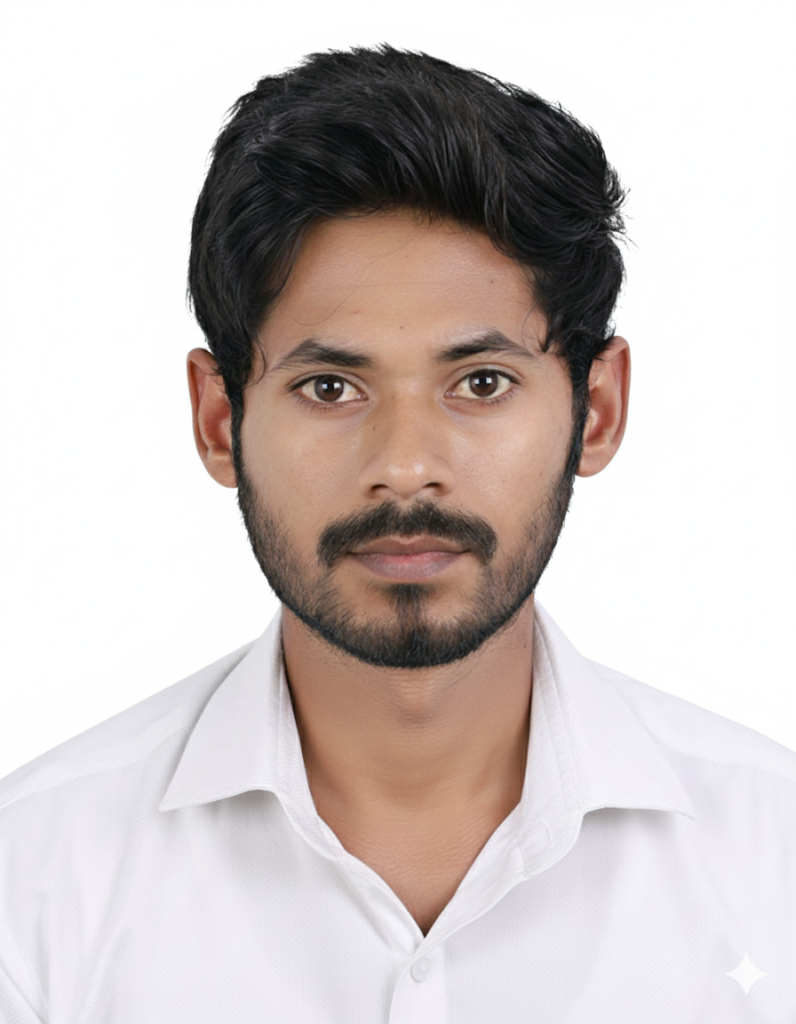
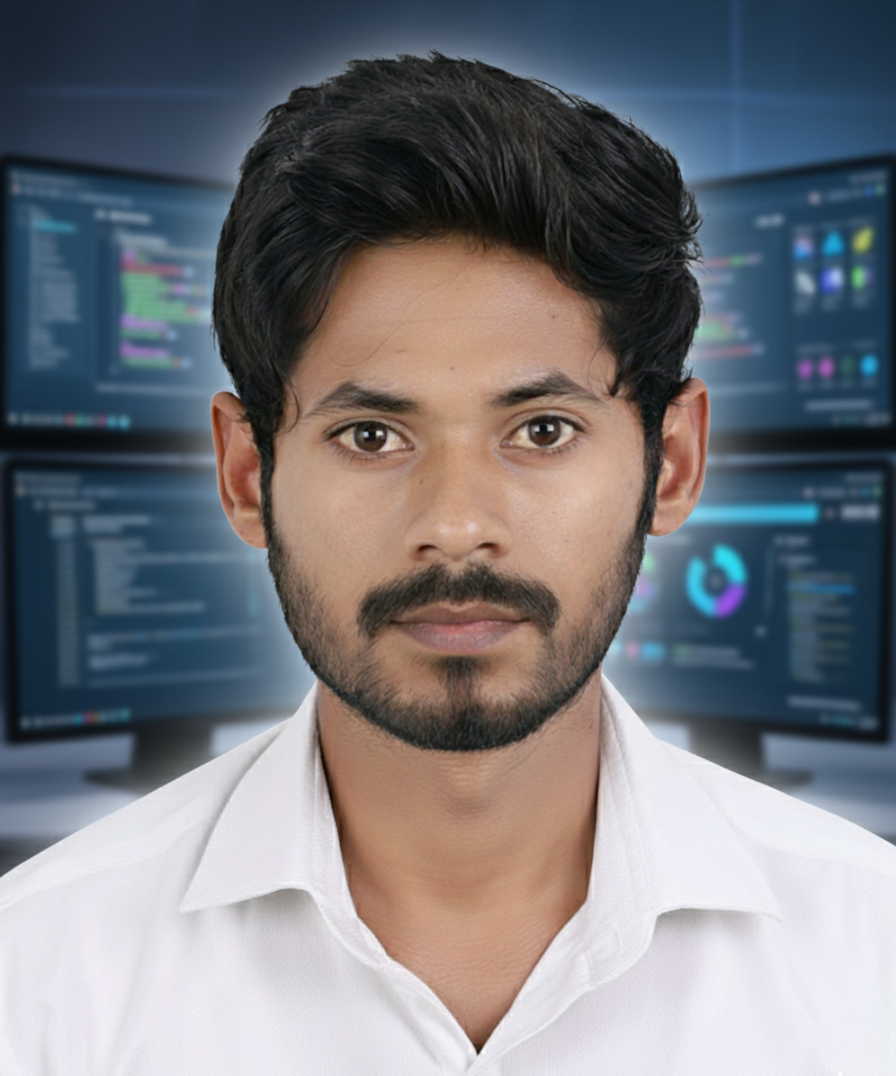
modified my_portfolio.html and style.css

diff --git a/my_portfolio/style.css b/my_portfolio/style.css
@@ -230,7 +230,7 @@ section::before {
 #home {
     width: 100%;
     height: 100vh;
-    background: linear-gradient(rgba(0, 0, 0, .4), rgba(0, 0, 0, 6)), url(./ak2.jpg);
+    background: linear-gradient(rgba(0, 0, 0, .4), rgba(0, 0, 0, 6)), url(./ak3.png);
     background-size: cover;
     background-position: center;
     background-repeat: no-repeat;
@@ -290,7 +290,12 @@ section::before {
     display: flex;
     justify-content: center;
     align-items: center;
-    background: linear-gradient(75deg, white, rgb(234, 145, 234));
+    background: linear-gradient(135deg,
+            #667eea 0%,
+            #764ba2 25%,
+            #f093fb 50%,
+            #f5576c 75%,
+            #4facfe 100%);
 }
 
 .circle {
@@ -399,7 +404,13 @@ section::before {
             rgba(255, 241, 242, 0.9) 100%);
     position: relative;
     overflow: hidden;
-    background: linear-gradient(75deg, white, rgb(234, 145, 234));
+    background: linear-gradient(135deg,
+            #667eea 0%,
+            #764ba2 25%,
+            #f093fb 50%,
+            #f5576c 75%,
+            #4facfe 100%);
+    ;
 }
 
 #skills::before {
@@ -535,9 +546,9 @@ label {
 
 .progress-bar {
     background: linear-gradient(90deg,
-            #2563eb 0%,
-            #7c3aed 50%,
-            #f43f5e 100%);
+            #eb2525 0%,
+            #3aed46 50%,
+            #423ff4 100%);
     border-radius: 10px;
     transition: width 1.5s cubic-bezier(0.4, 0, 0.2, 1);
     position: relative;
@@ -664,7 +675,12 @@ label {
     justify-content: center;
     align-items: center;
     padding-top: 3%;
-    background: linear-gradient(75deg, white, rgb(234, 145, 234));
+    background: linear-gradient(135deg,
+            #667eea 0%,
+            #764ba2 25%,
+            #f093fb 50%,
+            #f5576c 75%,
+            #4facfe 100%);
 }
 
 .carousel {
@@ -691,15 +707,20 @@ label {
     }
 }
 
-/* Pricing Section */
-#pricing {
+/* Certifications Section */
+#Certifications {
     padding: 6rem 0;
-    background: linear-gradient(75deg, white, rgb(234, 145, 234));
+    background: linear-gradient(135deg,
+            #667eea 0%,
+            #764ba2 25%,
+            #f093fb 50%,
+            #f5576c 75%,
+            #4facfe 100%);
     position: relative;
     overflow: hidden;
 }
 
-#pricing::before {
+#Certifications::before {
     content: '';
     position: absolute;
     top: 0;
@@ -712,14 +733,14 @@ label {
     pointer-events: none;
 }
 
-.pricing-header {
+.Certifications-header {
     text-align: center;
     margin-bottom: 4rem;
     position: relative;
     z-index: 1;
 }
 
-.pricing-header h2 {
+.Certifications-header h2 {
     font-size: 3rem;
     background: linear-gradient(135deg, #ffffff 0%, #f0f9ff 100%);
     -webkit-background-clip: text;
@@ -730,20 +751,21 @@ label {
     text-shadow: 0 4px 8px rgba(0, 0, 0, 0.2);
 }
 
-.pricing-header p {
+.Certifications-header p {
     font-size: 1.2rem;
     color: rgba(255, 255, 255, 0.9);
     max-width: 600px;
     margin: 0 auto;
 }
 
-.pricing-grid {
+.Certifications-grid {
     display: grid;
     grid-template-columns: repeat(auto-fit, minmax(300px, 1fr));
     gap: 2.5rem;
     position: relative;
     z-index: 1;
 }
+
 
 .card {
     background: linear-gradient(135deg,
@@ -827,29 +849,7 @@ label {
     margin-bottom: 2rem;
 }
 
-.card-title {
-    font-size: 1.5rem;
-    font-weight: 700;
-    background: linear-gradient(135deg,
-            #667eea 0%,
-            #764ba2 100%);
-    -webkit-background-clip: text;
-    -webkit-text-fill-color: transparent;
-    background-clip: text;
-    margin-bottom: 1rem;
-}
 
-.card-price {
-    font-size: 3rem;
-    font-weight: 800;
-    background: linear-gradient(135deg,
-            #667eea 0%,
-            #f5576c 100%);
-    -webkit-background-clip: text;
-    -webkit-text-fill-color: transparent;
-    background-clip: text;
-    margin-bottom: 0.5rem;
-}
 
 .card-period {
     color: var(--secondary-color);
@@ -996,7 +996,12 @@ label {
 #contact {
     padding-top: 4%;
     padding-bottom: 2%;
-    background: linear-gradient(75deg, white, rgb(234, 145, 234));
+    background: linear-gradient(135deg,
+            #667eea 0%,
+            #764ba2 25%,
+            #f093fb 50%,
+            #f5576c 75%,
+            #4facfe 100%);
 }
 
 #contact iframe {

diff --git a/my_portfolio/my_portfolio.html b/my_portfolio/my_portfolio.html
@@ -39,7 +39,7 @@
             <a class="nav-link" href="#projects">Projects</a>
           </li>
           <li class="nav-item">
-            <a class="nav-link" href="#pricing">Pricing</a>
+            <a class="nav-link" href="#Certifications">Certifications</a>
           </li>
           <li class="nav-item">
             <a class="nav-link" href="#contact">Contact</a>
@@ -168,26 +168,24 @@
     </div>
   </section>
 
-  <!-- Pricing Section -->
-  <section id="pricing">
+  <!-- Certifications Section -->
+  <section id="Certifications">
     <div class="container text-center">
-      <h1 class="display-4">Pricing</h1>
+      <h1 class="display-4">Certifications</h1>
       <div class="row row-cols-1 row-cols-md-3">
         <div class="col">
           <div class="card">
             <div class="card-header">
-              <h4>GOLD</h4>
+              <h4> FRONT END DEVELOPMENT</h4>
             </div>
 
             <div class="card-body">
-              <h1>$5/<span class="text-muted">month</span></h1>
+
               <ul class="list-unstyled">
-                <li>Including 5 pages</li>
-                <li>Free Source Code</li>
-                <li>Responsive Designs</li>
-                <li>5 Days Delivery</li>
+                <li>I create responsive, user friendly websites using HTML, CSS, and JavaScript.
+                  I focus on clean design, smooth interactions, and fast performance.</li>
               </ul>
-              <button class="btn btn-primary px-5">Contact</button>
+              <button class="btn btn-primary px-5">Check Here</button>
             </div>
 
           </div>
@@ -196,18 +194,18 @@
         <div class="col">
           <div class="card">
             <div class="card-header">
-              <h4>DIAMOND</h4>
+              <h4>COMPUTER HARDWARE</h4>
             </div>
 
             <div class="card-body">
-              <h1>$10/<span class="text-muted">month</span></h1>
+
               <ul class="list-unstyled">
-                <li>Including 10 pages</li>
-                <li>Free Source Code</li>
-                <li>Responsive Designs</li>
-                <li>3 Days Delivery</li>
+                <li>I build, repair, and optimize computer systems.
+                  Passionate about keeping hardware running at its best. Focused on performance, reliability, and
+                  efficiency.</li>
+
               </ul>
-              <button class="btn btn-primary px-5">Contact</button>
+              <button class="btn btn-primary px-5">Check Here</button>
             </div>
 
           </div>
@@ -216,18 +214,17 @@
         <div class="col">
           <div class="card">
             <div class="card-header">
-              <h4>PLATINUM</h4>
+              <h4>INTRODUCTION TO MODERN AI</h4>
             </div>
 
             <div class="card-body">
-              <h1>$15/<span class="text-muted">month</span></h1>
+
               <ul class="list-unstyled">
-                <li>Including 15 pages</li>
-                <li>Free Source Code</li>
-                <li>Responsive Designs</li>
-                <li>1 Days Delivery</li>
+                <li>Exploring the world of Modern Artificial Intelligence.
+                  Focused on machine learning, data, and intelligent automation. I study and apply modern AI concepts.
+                </li>
               </ul>
-              <button class="btn btn-primary px-5">Contact</button>
+              <button class="btn btn-primary px-5">Check Here</button>
             </div>
 
           </div>
